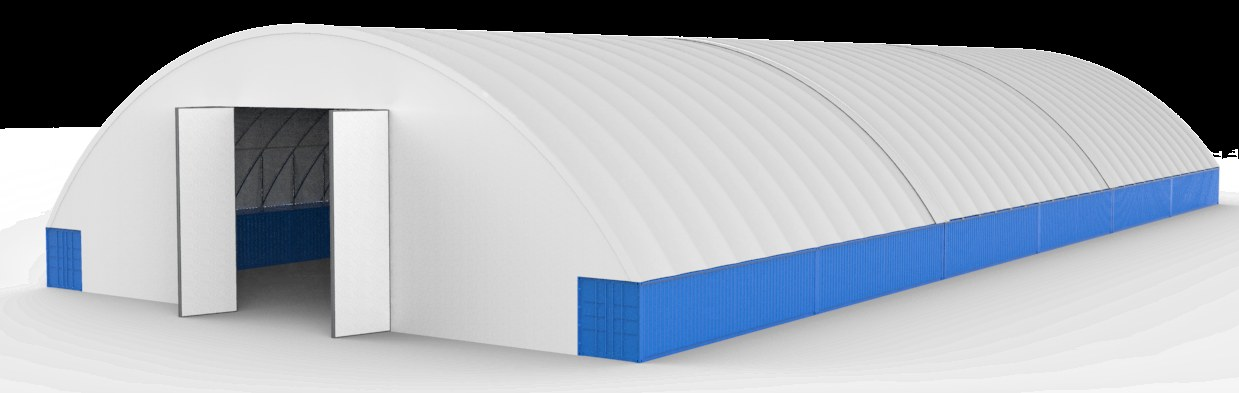
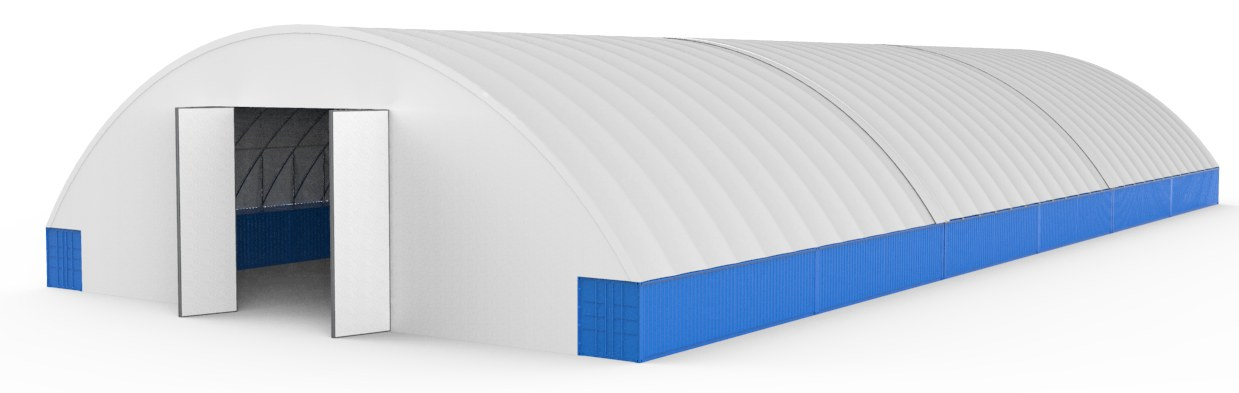
Agricultural card image (brand label removed), fix Arch image background
Claude-Session: https://claude.ai/code/session_0158Fftx2yiYDSvStLzRsbkD

Changed region(s): [[0.0, 0.0, 1.0, 0.4275], [0.0, 0.4885, 1.0, 0.9771]]

diff --git a/site/index.html b/site/index.html
@@ -2,7 +2,7 @@
 <html lang="en">
 <head>
 <meta charset="utf-8">
-<meta name="build" content="44">
+<meta name="build" content="45">
 <meta name="viewport" content="width=device-width, initial-scale=1, viewport-fit=cover">
 <meta name="description" content="GuruCADD: production drawings, conceptual sales drawings, light gauge modular building design and CAD-to-ERP integration for fabric structures and steel fabricators. Based in Khulna, Bangladesh.">
 <meta property="og:title" content="GuruCADD | Designing Excellence">
@@ -456,7 +456,7 @@ mask-image:linear-gradient(to right,transparent 0,#000 34%),linear-gradient(to b
 </style>
 </head>
 <body>
-<span id="build" class="bld">Ver 0.44.0</span>
+<span id="build" class="bld">Ver 0.45.0</span>
 <header>
   <div class="wrap nav">
     <a class="logo" href="#top" aria-label="GuruCADD home"><img class="dk-logo" src="images/logo-white.png" width="421" height="120" alt="GuruCADD, Designing Excellence"><img class="lt-logo" src="images/logo-color.png" width="878" height="238" alt="" aria-hidden="true"></a>
@@ -588,7 +588,7 @@ mask-image:linear-gradient(to right,transparent 0,#000 34%),linear-gradient(to b
         </div>
       </article>
       <article class="card">
-        <div class="pic contain"><span class="tag">Equipment</span><img src="images/truss.jpg" width="365" height="229" loading="lazy" alt="Part drawing of a steel frame component with parts list"></div>
+        <div class="pic contain"><span class="tag">Agricultural</span><img src="images/agri-equipment.jpg" width="1500" height="939" loading="lazy" alt="3D render of a portable grain storage bin on a steel frame with an auger, dimensioned in metres"></div>
         <div class="body">
           <h3>Agricultural Equipment</h3>
           <p>3D modelling and manufacturing drawings for agricultural and farm equipment, from concept to workshop.</p>

diff --git a/site/services.html b/site/services.html
@@ -2,7 +2,7 @@
 <html lang="en">
 <head>
 <meta charset="utf-8">
-<meta name="build" content="44">
+<meta name="build" content="45">
 <meta name="viewport" content="width=device-width, initial-scale=1, viewport-fit=cover">
 <meta name="description" content="Production drawings, conceptual sales drawings, ERP integration and light gauge modular building design.">
 <meta property="og:title" content="Services | GuruCADD">
@@ -457,7 +457,7 @@ mask-image:linear-gradient(to right,transparent 0,#000 34%),linear-gradient(to b
 <link rel="canonical" href="https://www.gurucadd.com/services.html">
 </head>
 <body>
-<span id="build" class="bld">Ver 0.44.0</span>
+<span id="build" class="bld">Ver 0.45.0</span>
 <header>
   <div class="wrap nav">
     <a class="logo" href="index.html" aria-label="GuruCADD home"><img class="dk-logo" src="images/logo-white.png" width="421" height="120" alt="GuruCADD, Designing Excellence"><img class="lt-logo" src="images/logo-color.png" width="878" height="238" alt="" aria-hidden="true"></a>
@@ -563,7 +563,7 @@ mask-image:linear-gradient(to right,transparent 0,#000 34%),linear-gradient(to b
         </div>
       </article>
       <article class="card">
-        <div class="pic contain"><span class="tag">Equipment</span><img src="images/truss.jpg" width="365" height="229" loading="lazy" alt="Part drawing of a steel frame component with parts list"></div>
+        <div class="pic contain"><span class="tag">Agricultural</span><img src="images/agri-equipment.jpg" width="1500" height="939" loading="lazy" alt="3D render of a portable grain storage bin on a steel frame with an auger, dimensioned in metres"></div>
         <div class="body">
           <h3>Agricultural Equipment</h3>
           <p>3D modelling and manufacturing drawings for agricultural and farm equipment, from concept to workshop.</p>

diff --git a/site/about-us.html b/site/about-us.html
@@ -2,7 +2,7 @@
 <html lang="en">
 <head>
 <meta charset="utf-8">
-<meta name="build" content="44">
+<meta name="build" content="45">
 <meta name="viewport" content="width=device-width, initial-scale=1, viewport-fit=cover">
 <meta name="description" content="A Khulna drawing office of architects, engineers and ERP specialists, with industries served and case studies.">
 <meta property="og:title" content="About us | GuruCADD">
@@ -457,7 +457,7 @@ mask-image:linear-gradient(to right,transparent 0,#000 34%),linear-gradient(to b
 <link rel="canonical" href="https://www.gurucadd.com/about-us.html">
 </head>
 <body>
-<span id="build" class="bld">Ver 0.44.0</span>
+<span id="build" class="bld">Ver 0.45.0</span>
 <header>
   <div class="wrap nav">
     <a class="logo" href="index.html" aria-label="GuruCADD home"><img class="dk-logo" src="images/logo-white.png" width="421" height="120" alt="GuruCADD, Designing Excellence"><img class="lt-logo" src="images/logo-color.png" width="878" height="238" alt="" aria-hidden="true"></a>

diff --git a/site/contact-us.html b/site/contact-us.html
@@ -2,7 +2,7 @@
 <html lang="en">
 <head>
 <meta charset="utf-8">
-<meta name="build" content="44">
+<meta name="build" content="45">
 <meta name="viewport" content="width=device-width, initial-scale=1, viewport-fit=cover">
 <meta name="description" content="Send a sketch or project details and get a free quote from GuruCADD, Khulna, Bangladesh.">
 <meta property="og:title" content="Contact | GuruCADD">
@@ -457,7 +457,7 @@ mask-image:linear-gradient(to right,transparent 0,#000 34%),linear-gradient(to b
 <link rel="canonical" href="https://www.gurucadd.com/contact-us.html">
 </head>
 <body>
-<span id="build" class="bld">Ver 0.44.0</span>
+<span id="build" class="bld">Ver 0.45.0</span>
 <header>
   <div class="wrap nav">
     <a class="logo" href="index.html" aria-label="GuruCADD home"><img class="dk-logo" src="images/logo-white.png" width="421" height="120" alt="GuruCADD, Designing Excellence"><img class="lt-logo" src="images/logo-color.png" width="878" height="238" alt="" aria-hidden="true"></a>

diff --git a/site/gallery.html b/site/gallery.html
@@ -2,7 +2,7 @@
 <html lang="en">
 <head>
 <meta charset="utf-8">
-<meta name="build" content="44">
+<meta name="build" content="45">
 <meta name="viewport" content="width=device-width, initial-scale=1, viewport-fit=cover">
 <meta name="description" content="Real production, conceptual and modular drawing sheets from GuruCADD projects.">
 <meta property="og:title" content="Drawing samples | GuruCADD">
@@ -457,7 +457,7 @@ mask-image:linear-gradient(to right,transparent 0,#000 34%),linear-gradient(to b
 <link rel="canonical" href="https://www.gurucadd.com/gallery.html">
 </head>
 <body>
-<span id="build" class="bld">Ver 0.44.0</span>
+<span id="build" class="bld">Ver 0.45.0</span>
 <header>
   <div class="wrap nav">
     <a class="logo" href="index.html" aria-label="GuruCADD home"><img class="dk-logo" src="images/logo-white.png" width="421" height="120" alt="GuruCADD, Designing Excellence"><img class="lt-logo" src="images/logo-color.png" width="878" height="238" alt="" aria-hidden="true"></a>
